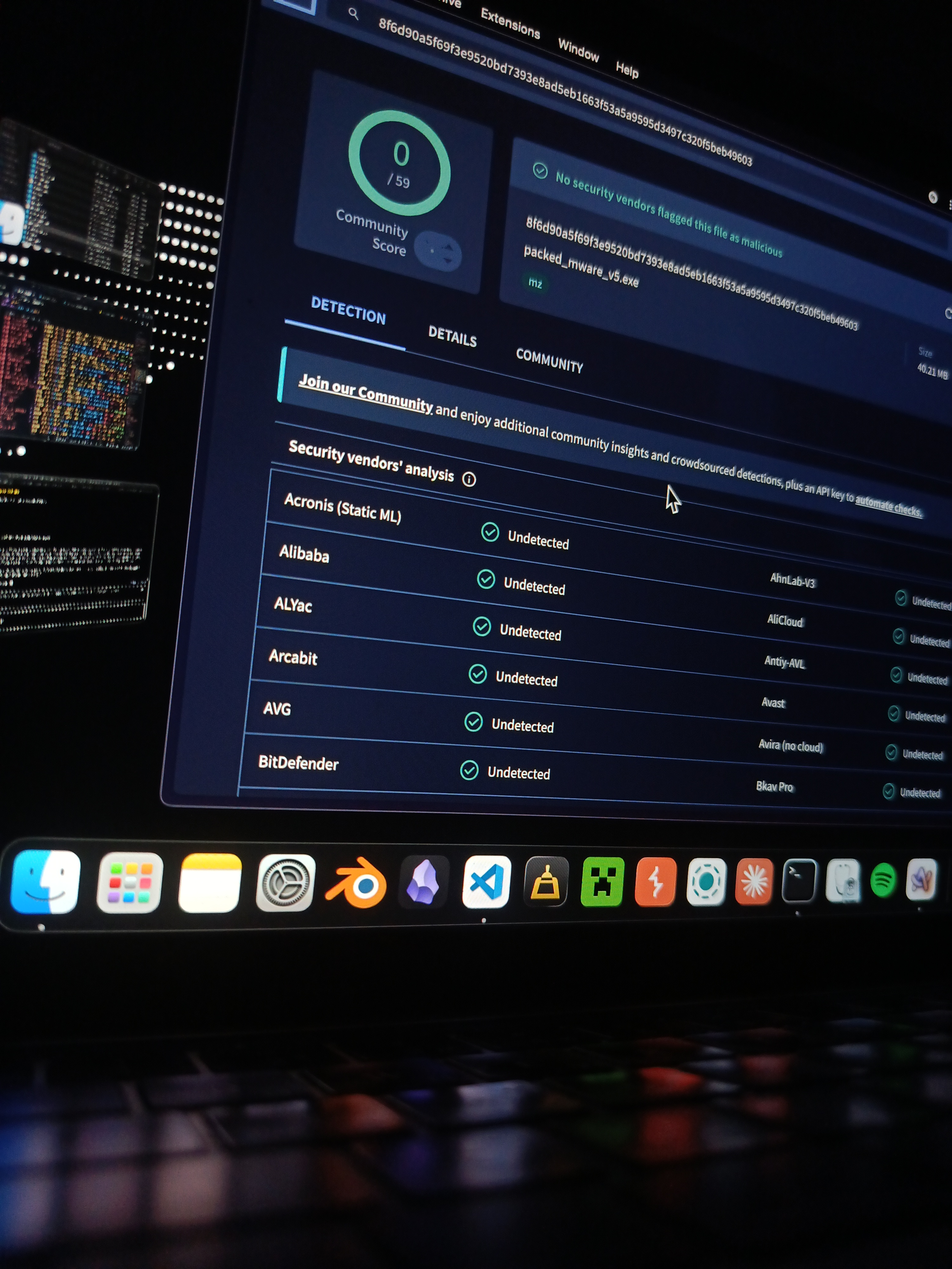
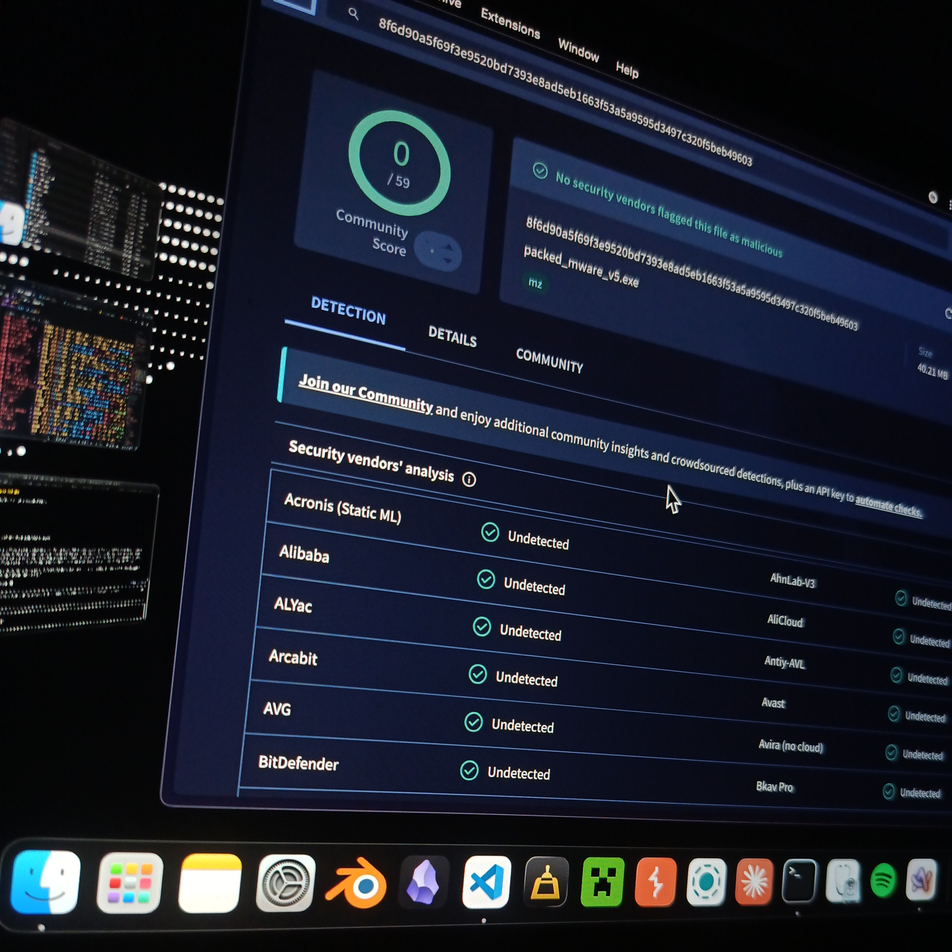
docs: square off the VT photos so they sit side by side
The portrait shot carried a third of a frame of blurry keyboard under
the dock, which pushed it taller than the square one and left the two
staggered. Trimming that dead strip makes both 3000x3000, so an equal
width renders them the same height and they read as a pair.

diff --git a/README.md b/README.md
@@ -252,12 +252,12 @@ were submitted to VirusTotal after release.
 <div align="center">
 
 <a href="docs/screenshots/vt-packed_mware_v5-0of59.jpg">
-  <img src="docs/screenshots/vt-packed_mware_v5-0of59.jpg" height="420"
+  <img src="docs/screenshots/vt-packed_mware_v5-0of59.jpg" width="45%"
        alt="VirusTotal report: 0 of 59 engines detect packed_mware_v5.exe">
 </a>
 &nbsp;
 <a href="docs/screenshots/vt-svchost_helper-2of69.jpg">
-  <img src="docs/screenshots/vt-svchost_helper-2of69.jpg" height="420"
+  <img src="docs/screenshots/vt-svchost_helper-2of69.jpg" width="45%"
        alt="VirusTotal report: 2 of 69 engines detect svchost_helper.exe">
 </a>
 
@@ -267,8 +267,10 @@ were submitted to VirusTotal after release.
 
 <br>
 
-Both are unedited photos of the screen, so the address bar, the "last analysis date"
-and the SHA-256 of the exact file that was scanned are all still in frame.
+Both are photos of the screen. The only edit is that the taller one had the blurry
+keyboard strip at the bottom trimmed off, so the two are both square and line up side
+by side; the address bar, the "last analysis date" and the SHA-256 of the exact file
+that was scanned are all still in frame.
 
 ### 🧠 How to read a scan count
 
